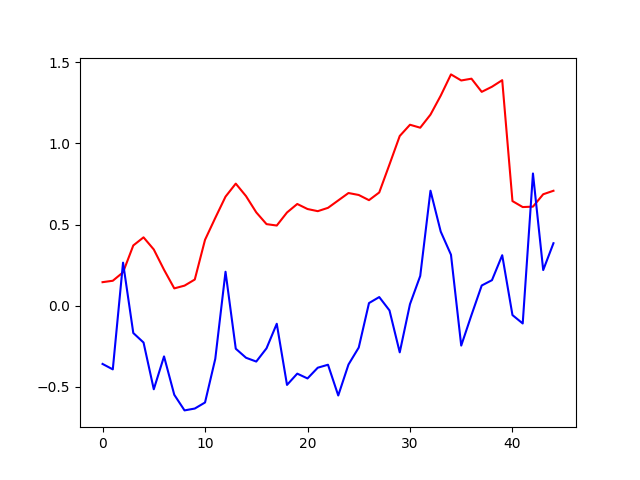
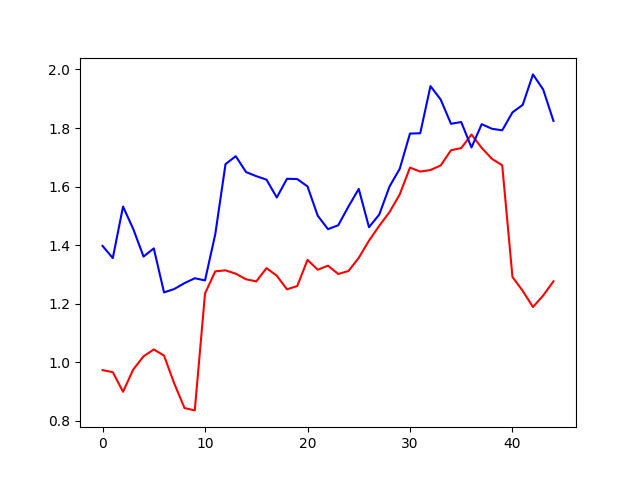
second modify

diff --git a/torch_GitHub.py b/torch_GitHub.py
@@ -16,68 +16,43 @@ def split_sequences(sequences, in_steps, out_steps):
         # 检查是否越界
         if i + in_steps + out_steps > len(sequences):
             break
-        seq_x = sequences[i : i + in_steps, :-1]
-        seq_y = sequences[i + in_steps : i + in_steps + out_steps, -1]
-        X.append(seq_x)
-        y.append(seq_y)
+        X.append(sequences[i : i + in_steps, :-1])
+        y.append(sequences[i + in_steps : i + in_steps + out_steps, -1])
     return array(X), array(y)
 
-# reading data frame ==================================================
-df = pd.read_csv("goldETF.csv")
 
-in_cols = ["Open", "Low", "Close"]
-out_cols = ["Close", "Low"]
+# 获取原始数据集
+df = pd.read_csv("merged_file.csv")
+dataset = df[['avg_sentiment_score', 'high', 'low', 'open', 'close', 'volume','close']].values
 
-# choose a number of time steps
-n_steps_in, n_steps_out = 45, 1
-
-# ==============================================================================
-# Preparing Model for 'Low'=======================================================
-j = 1
-dataset_low = np.empty((df[out_cols[j]].values.shape[0], 0))
-for i in range(len(in_cols)):
-    dataset_low = np.append(
-        dataset_low,
-        df[in_cols[i]].values.reshape(df[in_cols[i]].values.shape[0], 1),
-        axis=1,
-    )
-
-dataset_low = np.append(
-    dataset_low,
-    df[out_cols[j]].values.reshape(df[out_cols[j]].values.shape[0], 1),
-    axis=1,
-)
-
-# Scaling dataset
+# 对数据进行缩放，消除量纲间的差异
 scaler = MinMaxScaler(feature_range=(0, 1))
-scaler_all = scaler.fit(dataset_low)
-scaled_data = scaler_all.transform(dataset_low)
+scaled_data = scaler.fit_transform(dataset)
 
-# convert into input/output
-x_train, y_train = split_sequences(scaled_data, n_steps_in, n_steps_out)
+# 指定时间片
+n_steps_in, n_steps_out = 10, 1
 
-train_set_size = int(0.2 * scaled_data.shape[0])
-x_test, y_test = split_sequences(
-    scaled_data[-train_set_size:-1, :], n_steps_in, n_steps_out
-)
+# 按照0.8的比例划分训练集和验证集
+data_train_ratio = 0.8
+split_index = int(data_train_ratio * scaled_data.shape[0])
+x_train,y_train = split_sequences(scaled_data[:split_index,:],n_steps_in,n_steps_out)
+x_test,y_test = split_sequences(scaled_data[split_index:,:],n_steps_in,n_steps_out)
 
-# make training and test sets in torch
+# 转为torch张量
 x_train = torch.from_numpy(x_train).type(torch.Tensor)
-x_test = torch.from_numpy(x_test).type(torch.Tensor)
 y_train = torch.from_numpy(y_train).type(torch.Tensor)
-y_test = torch.from_numpy(y_test).type(torch.Tensor)
 
-y_train.size(), x_train.size()
+x_test = torch.from_numpy(x_test).type(torch.Tensor)
+y_test = torch.from_numpy(y_test).type(torch.Tensor)
 
 # Build model
 ##################################################
 
-input_dim = 3
+input_dim = 6
 hidden_dim = 32
 num_layers = 2
 output_dim = 1
 num_epochs = 50
-
 
 # Here we define our model as a class
 class LSTM(nn.Module):
@@ -165,11 +140,10 @@ plt.show()
 # make predictions
 y_test_pred = model(x_test)
 
-# invert predictions
-y_train_pred = scaler_all.inverse_transform(y_train_pred.detach().numpy())
-y_train = scaler_all.inverse_transform(y_train.detach().numpy())
-y_test_pred = scaler_all.inverse_transform(y_test_pred.detach().numpy())
-y_test = scaler_all.inverse_transform(y_test.detach().numpy())
+y_train_pred = scaler.fit(y_train).inverse_transform(y_train_pred.detach().numpy())
+y_train = scaler.fit(y_train).inverse_transform(y_train.detach().numpy())
+y_test_pred = scaler.fit(y_test).inverse_transform(y_test_pred.detach().numpy())
+y_test = scaler.fit(y_test).inverse_transform(y_test.detach().numpy())
 
 # calculate root mean squared error
 trainScore = math.sqrt(mean_squared_error(y_train[:, 0], y_train_pred[:, 0]))

diff --git a/transformer_lstm.py b/transformer_lstm.py
@@ -117,10 +117,10 @@ class AttnDecoder(nn.Module):
 class StockDataset(Dataset):
     def __init__(self, file_path, T=time_step, train_flag=True):
         # 读取数据
-        data_pd = pd.read_csv(file_path)
+        df = pd.read_csv(file_path)
 
         # 只保留需要的列，去掉非数值列如 `date` 和 `code`
-        feature_data = data_pd[['avg_sentiment_score', 'high', 'low', 'open', 'close', 'volume']]
+        feature_data = df[['avg_sentiment_score', 'high', 'low', 'open', 'close', 'volume']]
 
         self.train_flag = train_flag
         self.data_train_ratio = 0.9
